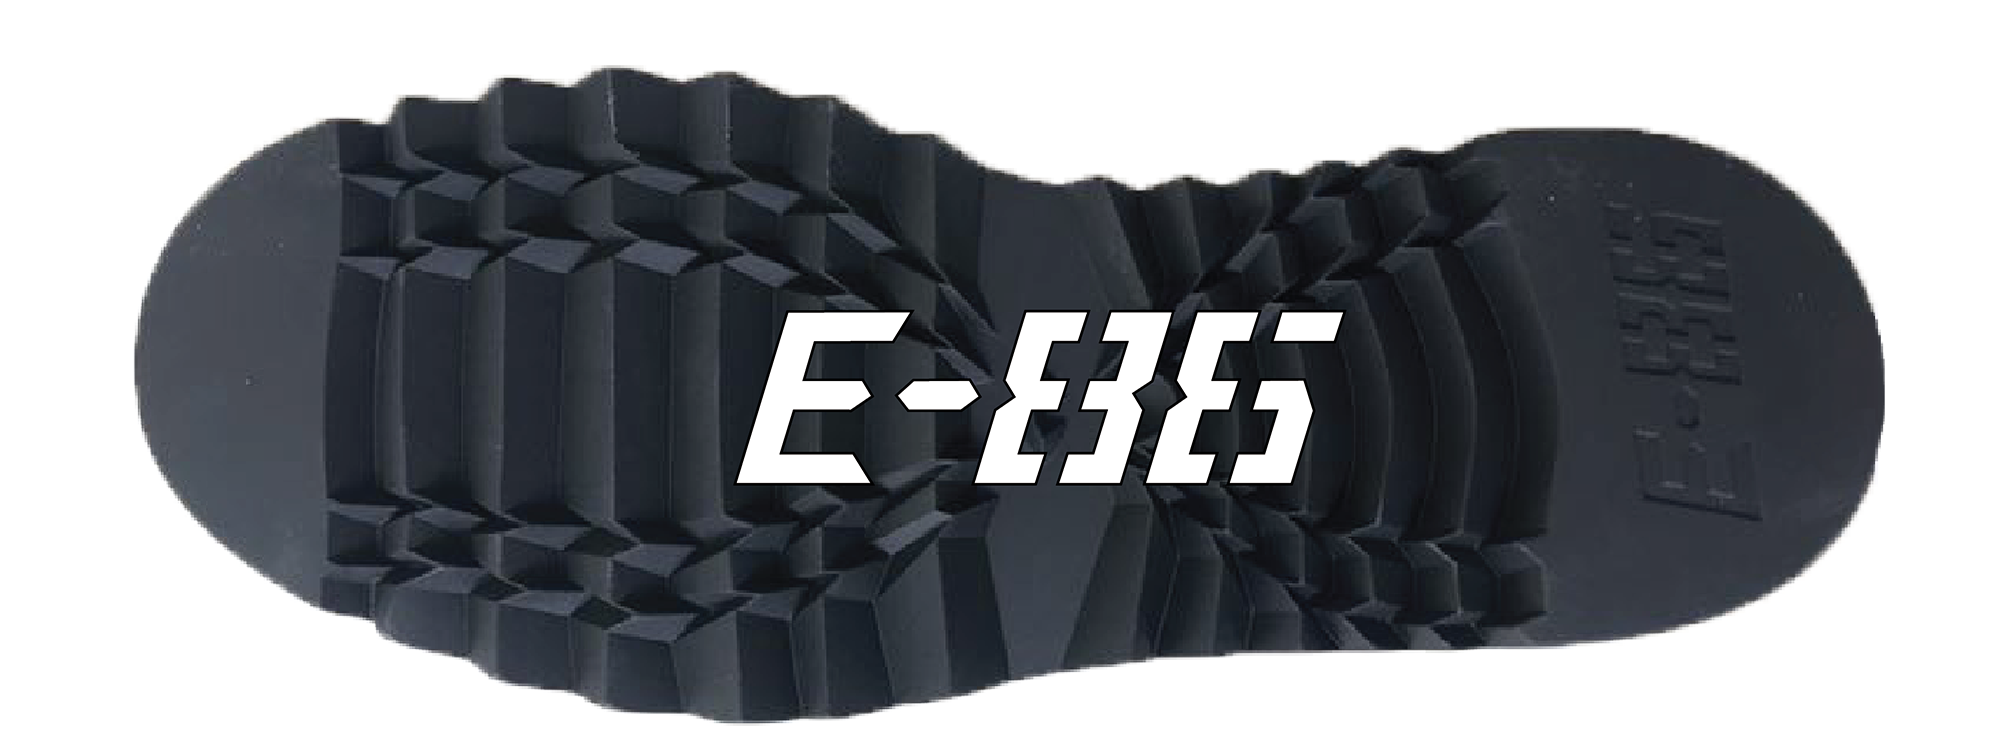
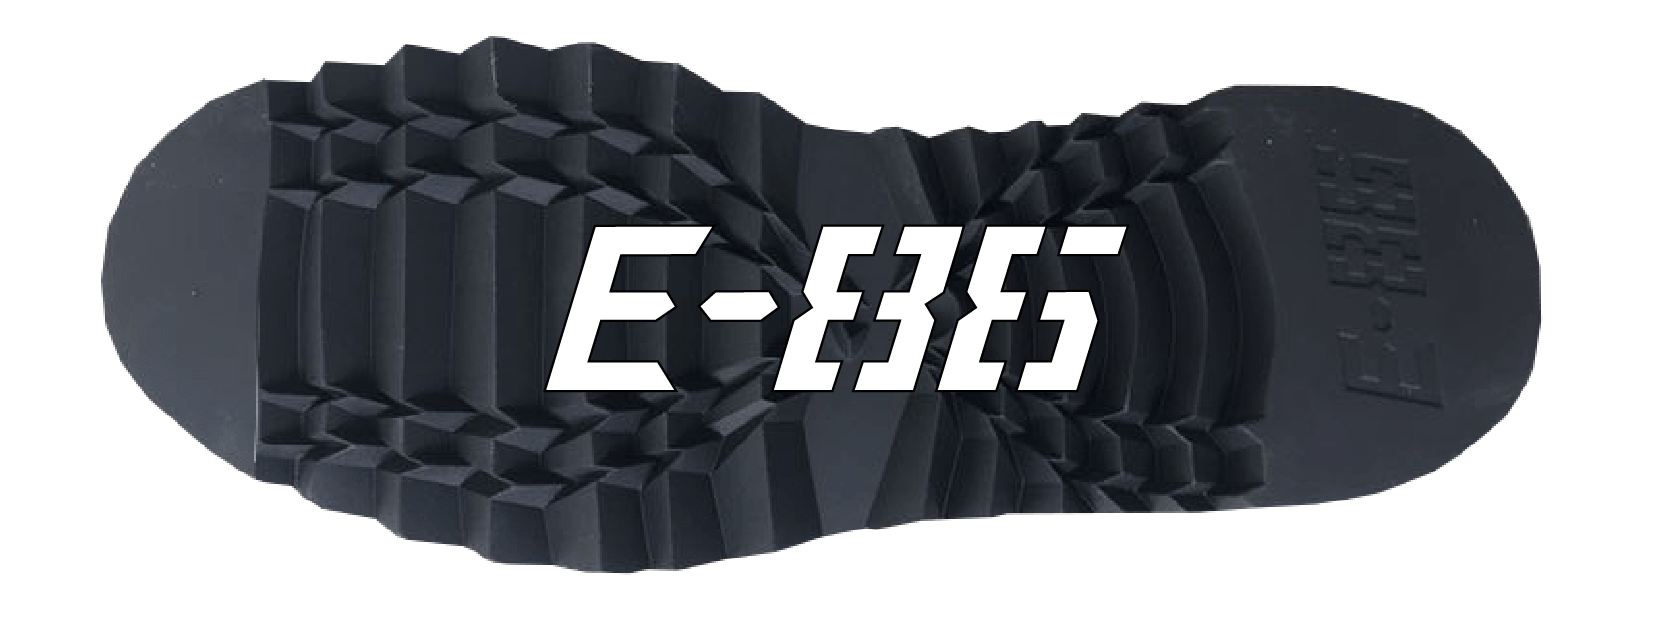
new dump him home image, cleaned up harkham shoe, backend fixes

Changed region(s): [[0.0616, 0.0609, 0.9541, 0.9744], [0.8926, 0.2436, 0.9234, 0.3349]]

diff --git a/harkham.html b/harkham.html
@@ -8,7 +8,7 @@
    <meta name="description" content="Shoe sole vector illustration for Ben Harkham. Also vectorized and cleaned up his logo, production blueprints, and designs that were printed on the shoe box.">
    <meta name="designer" content="Selina Gerosa, selinagerosa@gmail.com">
    <meta property="og:image" content="https://selinagerosa.com/logo.png">
-   <meta property="og:image:alt" content="favicon todo">
+   <meta property="og:image:alt" content="The initials 'SG' in a modern transitional serif with a green slime drip coming from the letters.">
    <meta property="og:title" content="Vector Illustration and Logo Design for Ben Harkham, graphic and web designer Selina Gerosa">
    <meta property="og:description" content="Shoe sole vector illustration for Ben Harkham. Also vectorized and cleaned up his logo, production blueprints, and designs that were printed on the shoe box.">
    <meta property="og:url" content="http://selinagerosa.com/harkham.html">

diff --git a/continuum.html b/continuum.html
@@ -8,7 +8,7 @@
    <meta name="description" content="Branding Campaign for Boston University College of Fine Arts Thesis Show. Included poster, banner, postcard, website, and sticker design.">
    <meta name="designer" content="Selina Gerosa, selinagerosa@gmail.com">
    <meta property="og:image" content="https://selinagerosa.com/logo.png">
-   <meta property="og:image:alt" content="favicon todo">
+   <meta property="og:image:alt" content="The initials 'SG' in a modern transitional serif with a green slime drip coming from the letters.">
    <meta property="og:title" content="Branding Campaign for Boston University College of Fine Arts Thesis Show, Selina Gerosa, Graphic and Web Designer">
    <meta property="og:description" content="Branding Campaign for Boston University College of Fine Arts Thesis Show. Included poster, banner, postcard, website, and sticker design.">
    <meta property="og:url" content="http://selinagerosa.com/continuum.html">

diff --git a/fisher.html b/fisher.html
@@ -8,7 +8,7 @@
    <meta name="description" content="Website Redesign for Sherri Fisher. Designed and coded by graphic and web designer Selina Gerosa in HTML/CSs/JS. Includes a focus on accecibility and SEO.">
    <meta name="designer" content="Selina Gerosa, selinagerosa@gmail.com">
    <meta property="og:image" content="https://selinagerosa.com/logo.png">
-   <meta property="og:image:alt" content="favicon todo">
+   <meta property="og:image:alt" content="The initials 'SG' in a modern transitional serif with a green slime drip coming from the letters.">
    <meta property="og:title" content="Website Redesign for Sherri Fisher, graphic and web designer Selina Gerosa">
    <meta property="og:description" content="Website Redesign for Sherri Fisher. Designed and coded by graphic and web designer Selina Gerosa in HTML/CSs/JS. Includes a focus on accecibility and SEO.">
    <meta property="og:url" content="http://selinagerosa.com/fisher.html">

diff --git a/cooper.html b/cooper.html
@@ -8,7 +8,7 @@
    <meta name="description" content="Website Redesign for Jacob Cooper. Redesigned and migrated site from cpanel to Wordpress. Designed and coded by graphic and web designer Selina Gerosa.">
    <meta name="designer" content="Selina Gerosa, selinagerosa@gmail.com">
    <meta property="og:image" content="https://selinagerosa.com/logo.png">
-   <meta property="og:image:alt" content="favicon todo">
+   <meta property="og:image:alt" content="The initials 'SG' in a modern transitional serif with a green slime drip coming from the letters.">
    <meta property="og:title" content="Website Redesign for Jacob Cooper, graphic and web designer Selina Gerosa">
    <meta property="og:description" content="Website Redesign for Jacob Cooper. Redesigned and migrated site from cpanel to Wordpress. Designed and coded by graphic and web designer Selina Gerosa.">
    <meta property="og:url" content="http://selinagerosa.com/cooper.html">

diff --git a/credits.html b/credits.html
@@ -8,7 +8,7 @@
    <meta name="description" content="Credits for the portfolio of graphic and web designer Selina Gerosa. Selina is experienced with the Adobe Creative Suite and HTML/CSS/JS.">
    <meta name="designer" content="Selina Gerosa, selinagerosa@gmail.com">
    <meta property="og:image" content="https://selinagerosa.com/logo.png">
-   <meta property="og:image:alt" content="favicon todo">
+   <meta property="og:image:alt" content="The initials 'SG' in a modern transitional serif with a green slime drip coming from the letters.">
    <meta property="og:title" content="Credits for the portfolio of graphic and web designer Selina Gerosa">
    <meta property="og:description" content="Credits for the portfolio of graphic and web designer Selina Gerosa. Selina is experienced with the Adobe Creative Suite and HTML/CSS/JS.">
    <meta property="og:url" content="http://selinagerosa.com/credits.html">

diff --git a/contact.html b/contact.html
@@ -8,7 +8,7 @@
    <meta name="description" content="This is the contact information for graphic and web designer Selina Gerosa. Selina is experienced with the Adobe Creative Suite and HTML/CSS/JS.">
    <meta name="designer" content="Selina Gerosa, selinagerosa@gmail.com">
    <meta property="og:image" content="https://selinagerosa.com/logo.png">
-   <meta property="og:image:alt" content="favicon todo">
+   <meta property="og:image:alt" content="The initials 'SG' in a modern transitional serif with a green slime drip coming from the letters.">
    <meta property="og:title" content="Contact Graphic and Web designer Selina Gerosa">
    <meta property="og:description" content="This is the contact information for for graphic and web designer Selina Gerosa. Selina is experienced with the Adobe Creative Suite and HTML/CSS/JS.">
    <meta property="og:url" content="http://selinagerosa.com/contact.html">

diff --git a/index.html b/index.html
@@ -9,7 +9,7 @@
     <meta name="description" content="This is the portfolio website for graphic and web designer Selina Gerosa. Selina is experienced with the Adobe Creative Suite and HTML/CSS/JS.">
     <meta name="designer" content="Selina Gerosa, selinagerosa@gmail.com">
     <meta property="og:image" content="https://selinagerosa.com/logo.png">
-    <meta property="og:image:alt" content="favicon todo">
+    <meta property="og:image:alt" content="The initials 'SG' in a modern transitional serif with a green slime drip coming from the letters.">
     <meta property="og:title" content="Selina Gerosa, Graphic and Web Design Portfolio">
     <meta property="og:description" content="This is the portfolio website for graphic and web designer Selina Gerosa. Selina is experienced with the Adobe Creative Suite and HTML/CSS/JS.">
     <meta property="og:url" content="http://selinagerosa.com/index.html">

diff --git a/about.html b/about.html
@@ -8,7 +8,7 @@
    <meta name="description" content="About graphic and web designer Selina Gerosa. Selina is experienced with the Adobe Creative Suite and HTML/CSS/JS.">
    <meta name="designer" content="Selina Gerosa, selinagerosa@gmail.com">
    <meta property="og:image" content="https://selinagerosa.com/logo.png">
-   <meta property="og:image:alt" content="favicon todo">
+   <meta property="og:image:alt" content="The initials 'SG' in a modern transitional serif with a green slime drip coming from the letters.">
    <meta property="og:title" content="About graphic and web designer Selina Gerosa">
    <meta property="og:description" content="About graphic and web designer Selina Gerosa. Selina is experienced with the Adobe Creative Suite and HTML/CSS/JS.">
    <meta property="og:url" content="http://selinagerosa.com/about.html">

diff --git a/namakiss.html b/namakiss.html
@@ -8,7 +8,7 @@
    <meta name="description" content="Brochure design for start-up vegan chocolate company NamaKiss.">
    <meta name="designer" content="Selina Gerosa, selinagerosa@gmail.com">
    <meta property="og:image" content="https://selinagerosa.com/logo.png">
-   <meta property="og:image:alt" content="favicon todo">
+   <meta property="og:image:alt" content="The initials 'SG' in a modern transitional serif with a green slime drip coming from the letters.">
    <meta property="og:title" content="Brochure Design for Start-up Vegan Chocolate Company NamaKiss, Selina Gerosa, Graphic and Web Designer">
    <meta property="og:description" content="Brochure design for start-up vegan chocolate company NamaKiss.">
    <meta property="og:url" content="http://selinagerosa.com/namakiss.html">

diff --git a/dump.html b/dump.html
@@ -8,7 +8,7 @@
    <meta name="description" content="Illustration for the band Dump Him used on stickers and grinders.">
    <meta name="designer" content="Selina Gerosa, selinagerosa@gmail.com">
    <meta property="og:image" content="https://selinagerosa.com/logo.png">
-   <meta property="og:image:alt" content="favicon todo">
+   <meta property="og:image:alt" content="The initials 'SG' in a modern transitional serif with a green slime drip coming from the letters.">
    <meta property="og:title" content="Illustration for the band Dump Him, graphic and web designer Selina Gerosa">
    <meta property="og:description" content="Illustration for the band Dump Him used on stickers and grinders.">
    <meta property="og:url" content="http://selinagerosa.com/dump.html">
